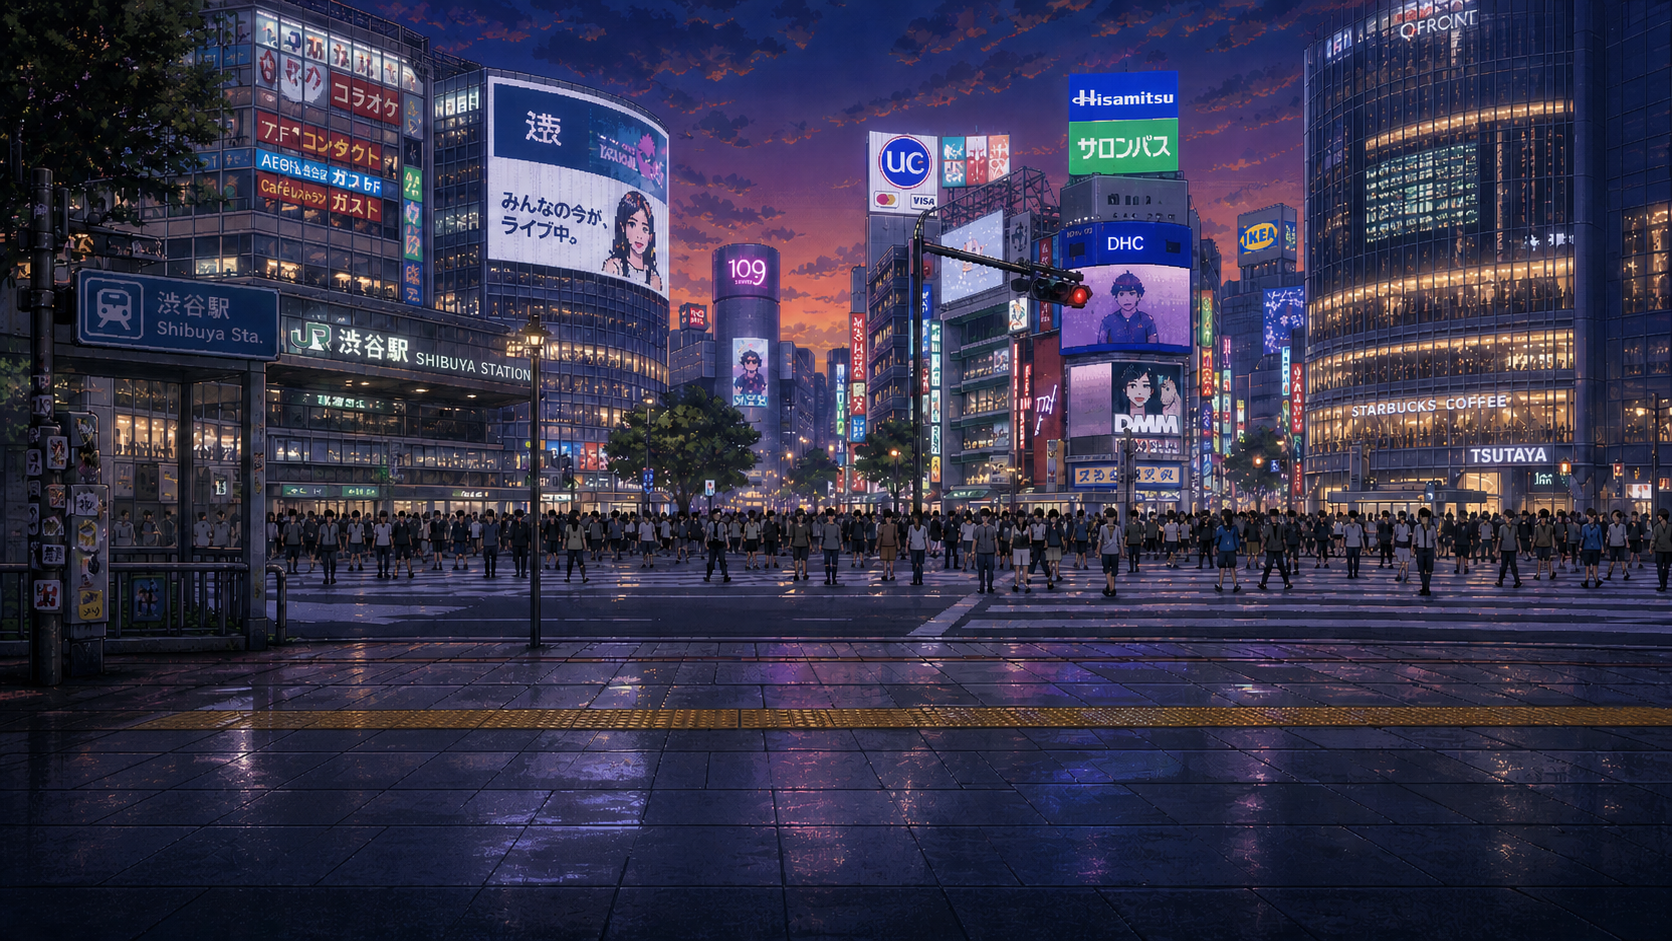
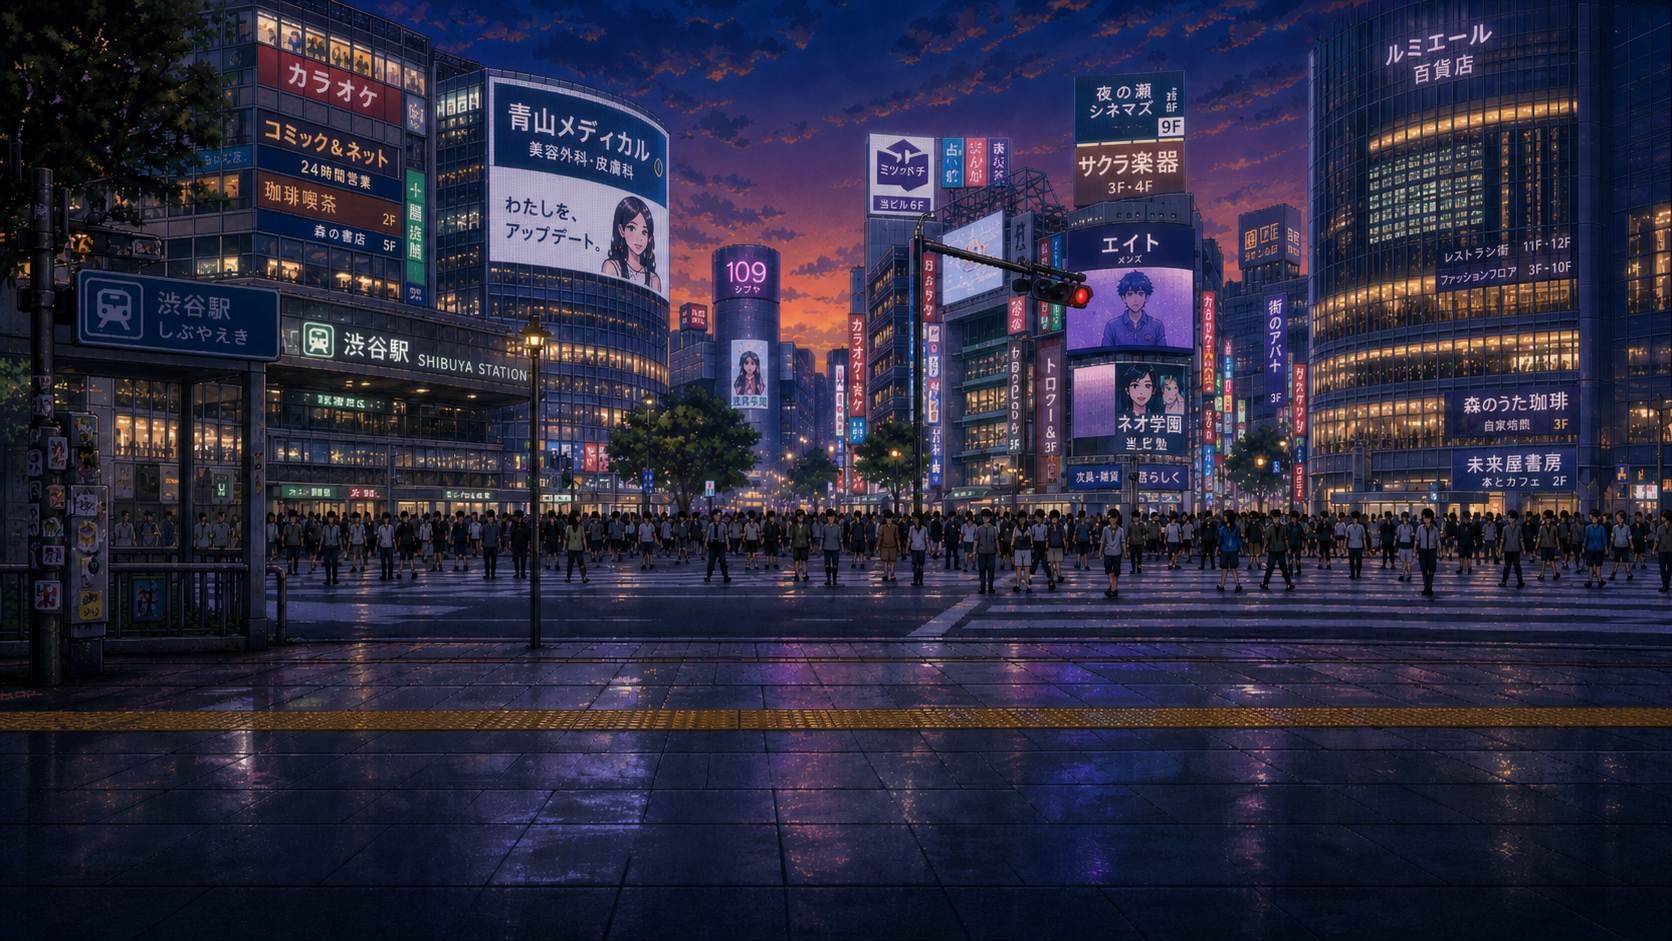
Update background and tune air control

diff --git a/src/main.ts b/src/main.ts
@@ -18,6 +18,12 @@ const PLAYER_BODY_OFFSET_X = 134;
 const PLAYER_BODY_OFFSET_Y = 86;
 const PLAYER_IDLE_FRAME_COUNT = 8;
 const PLAYER_FRAME_COUNT = 13;
+const GROUND_ACCELERATION = 2400;
+const AIR_ACCELERATION = 720;
+const GROUND_DRAG = 2400;
+const AIR_DRAG = 120;
+const MAX_RUN_SPEED = 380;
+const MAX_FALL_SPEED = 680;
 
 class PrototypeScene extends Phaser.Scene {
   private player!: Phaser.Types.Physics.Arcade.SpriteWithDynamicBody;
@@ -68,8 +74,7 @@ class PrototypeScene extends Phaser.Scene {
     this.player.setDisplaySize(PLAYER_DISPLAY_WIDTH, PLAYER_DISPLAY_HEIGHT);
     this.player.setCollideWorldBounds(true);
     this.applyPlayerBody();
-    this.player.setDragX(2400);
-    this.player.setMaxVelocity(360, 680);
+    this.player.setMaxVelocity(MAX_RUN_SPEED, MAX_FALL_SPEED);
     this.player.play("player-idle");
     this.wasOnFloor = true;
     this.player.on(`${Phaser.Animations.Events.ANIMATION_COMPLETE_KEY}player-land`, () => {
@@ -112,12 +117,14 @@ class PrototypeScene extends Phaser.Scene {
     const right = this.keys.d.isDown || this.cursors.right.isDown;
     const jump = Phaser.Input.Keyboard.JustDown(this.keys.w) || Phaser.Input.Keyboard.JustDown(this.cursors.space);
     let startedJump = false;
+    const horizontalAcceleration = onFloor ? GROUND_ACCELERATION : AIR_ACCELERATION;
+    this.player.setDragX(onFloor ? GROUND_DRAG : AIR_DRAG);
 
     if (left) {
-      this.player.setAccelerationX(-2200);
+      this.player.setAccelerationX(-horizontalAcceleration);
       this.player.setFlipX(true);
     } else if (right) {
-      this.player.setAccelerationX(2200);
+      this.player.setAccelerationX(horizontalAcceleration);
       this.player.setFlipX(false);
     } else {
       this.player.setAccelerationX(0);
